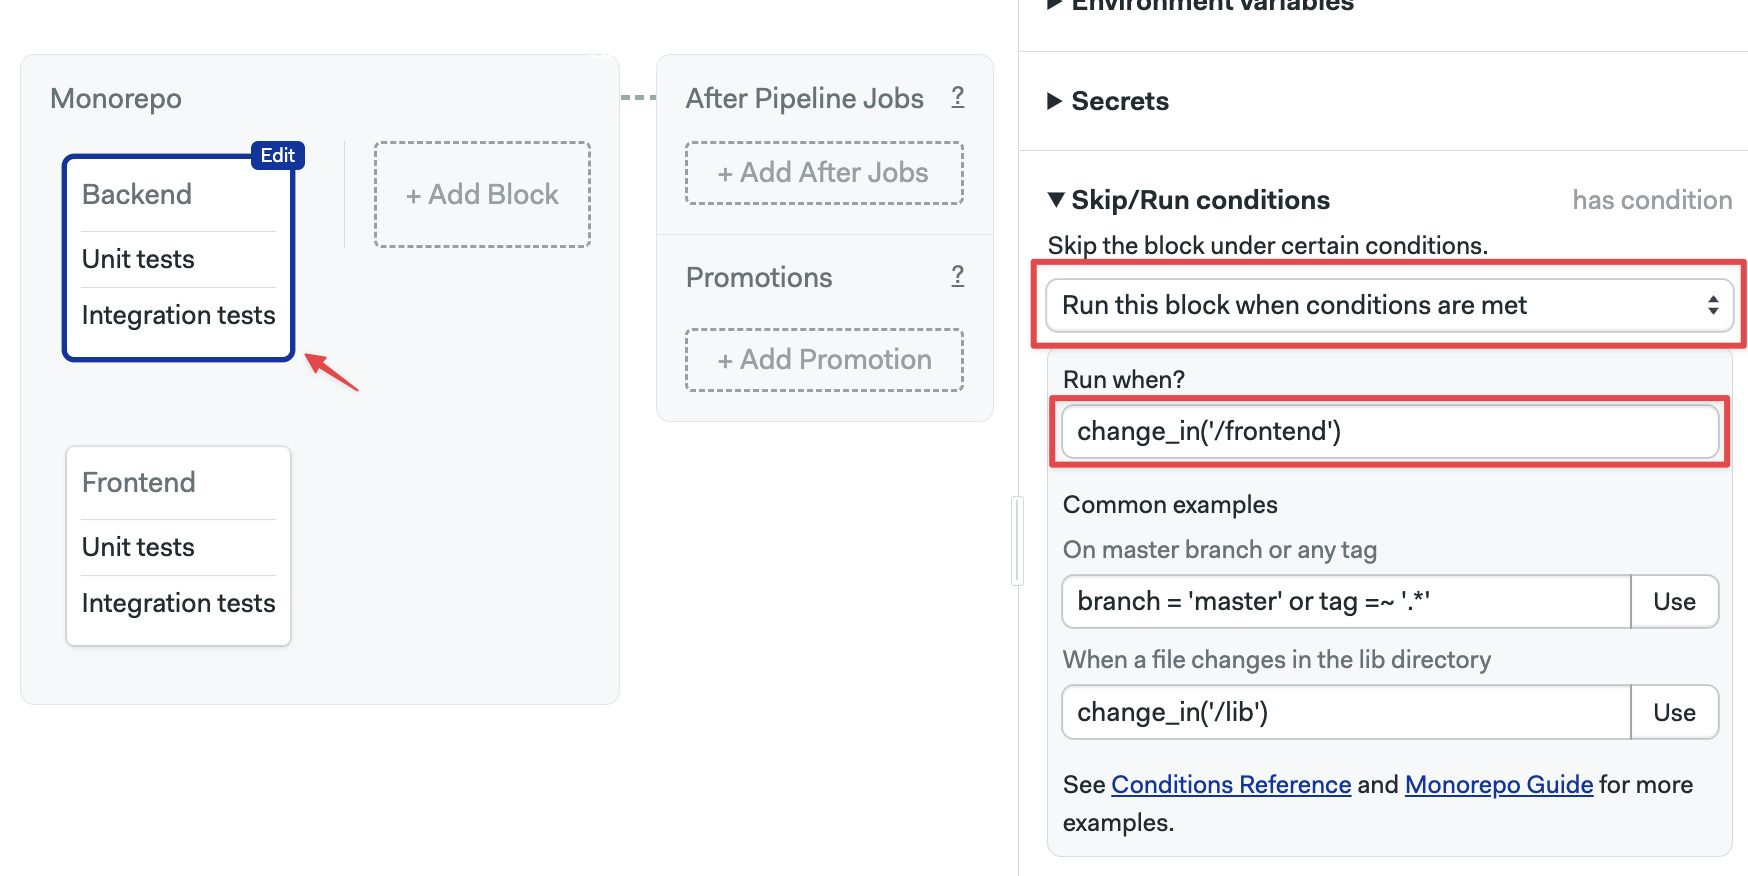
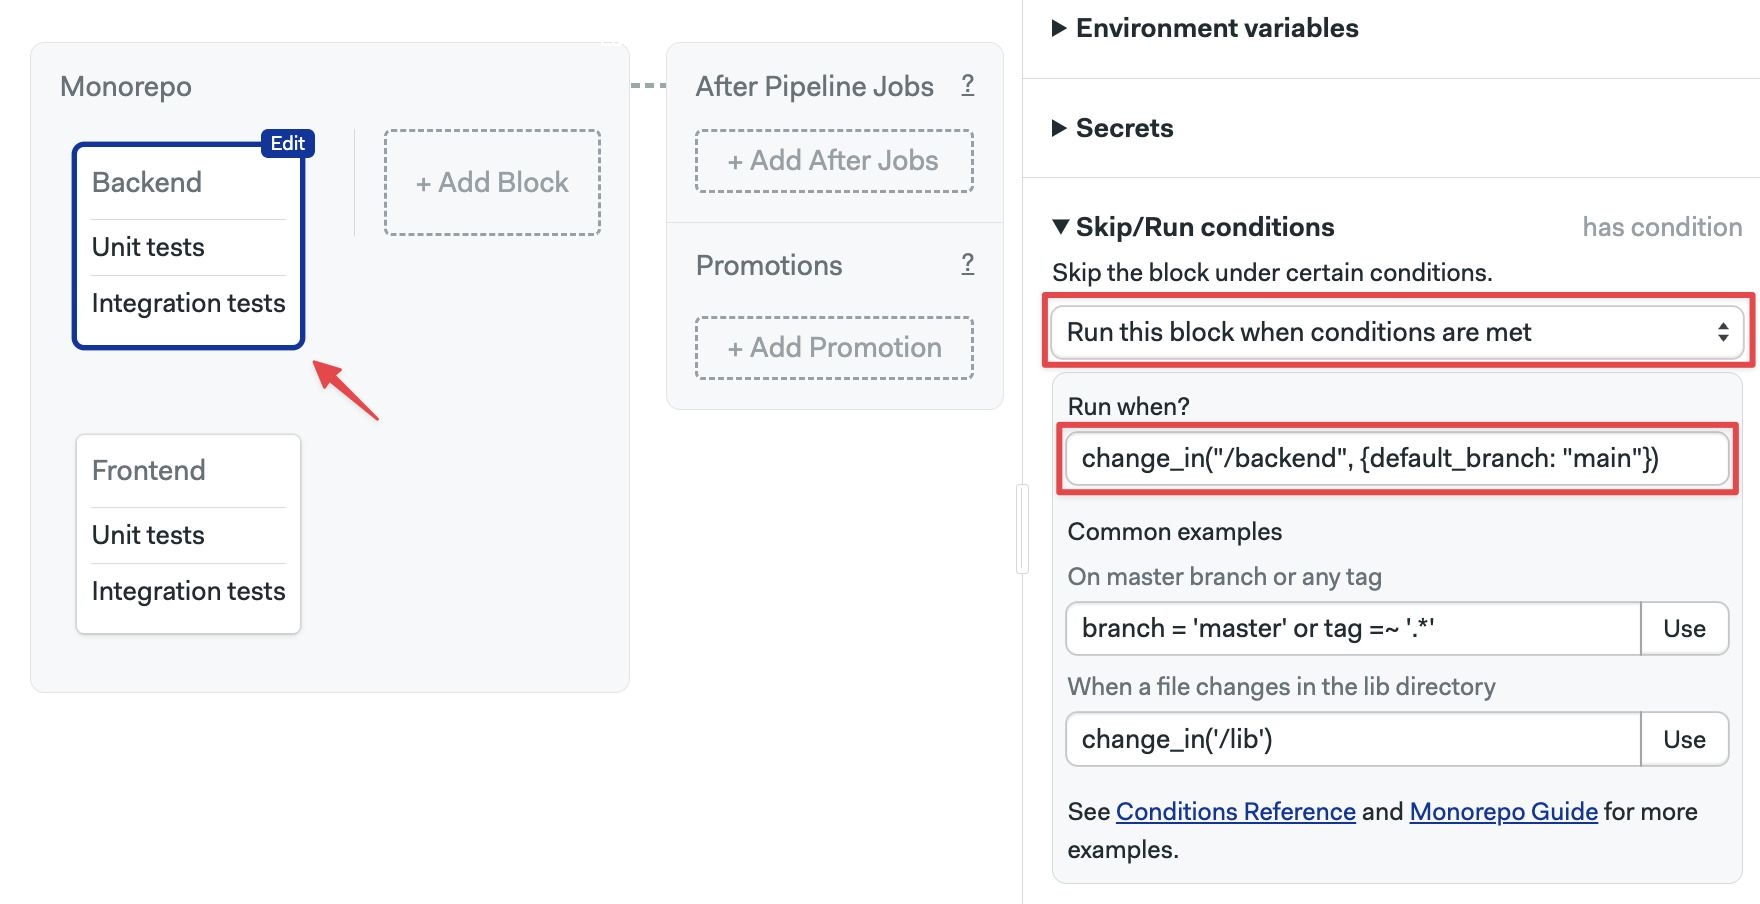
Default branch is more explicit. (#149)

diff --git a/docs/docs/using-semaphore/optimization/monorepo.md b/docs/docs/using-semaphore/optimization/monorepo.md
@@ -18,9 +18,9 @@ A [monorepo](https://semaphoreci.com/blog/what-is-monorepo) is a repository that
 
 Semaphore can detect changes between commits, allowing you to set up fine-grained jobs that only run when the underlying code changes. Skipping jobs covering unchanged code can greatly speed testing and reduce costs on big codebases.
 
-:::info 
+:::note 
 
-Pipelines with `change_in` expressions require a [pipeline initialization](../pipelines#init-job) step before the workflow starts.
+The `change_in` expressions are evaluated in the [pipeline initialization job](../pipelines#init-job).
 
 :::
 
@@ -121,12 +121,6 @@ While change detection is mainly geared toward monorepo projects. Nothing is pre
 
 ### Change detection in jobs {#jobs}
 
-:::note
-
-All paths are relative to the root of the repository.
-
-:::
-
 To enable change detection, follow these steps.
 
 <Tabs groupId="editor-yaml">
@@ -136,13 +130,15 @@ To enable change detection, follow these steps.
 2. Select the block
 3. Open the **Skip/run conditions** on the right side
 4. Select **Run this block when conditions are met**
-5. In the **When?** field type the [change condition](#condition), e.g. `change_in('/frontend')`
+5. In the **When?** field type the [change condition](#condition), e.g. `change_in("/frontend", {default_branch: "main"})`
 
 ![Setting up change conditions](./img/change-conditions-first.jpg)
 
-Repeat the procedure for the rest of the blocks. For example, for the Backend block, we could use the condition `change_in('/backend')`
+Repeat the procedure for the rest of the blocks. For example, for the Backend block, we could use the condition `change_in("/backend", {default_branch: "main"})`
 
 Press **Run the workflow** > **Start** to save your changes and run the pipeline.
+
+Conditions are ignored by default when you change the pipeline file. So, the very next run executes all blocks. Subsequent pushes should respect your change detection conditions.
 
 </TabItem>
 <TabItem value="yaml" label="YAML">
@@ -150,9 +146,11 @@ Press **Run the workflow** > **Start** to save your changes and run the pipeline
 1. Open your pipeline YAML file
 2. Locate the block you wish to add change conditions to
 3. Add `run.when` under the block
-4. Type the [change condition](#condition), e.g. `change_in('/frontend')`
+4. Type the [change condition](#condition), e.g. `change_in("/frontend", {default_branch: "main"})`
 5. Repeat the process for the other blocks that need conditions
 6. Push the pipeline file to the remote repository 
+
+Conditions are ignored by default when you change the pipeline file. So, the very next run executes all blocks. Subsequent pushes should respect your change detection conditions.
 
 ```yaml title="Change conditions"
 version: v1.0
@@ -183,7 +181,7 @@ blocks:
             - 'npm run test:integration'
     # highlight-start
     run:
-      when: change_in('/frontend')
+      when: 'change_in("/frontend", {default_branch: "main"})'
     # highlight-end
   - name: Frontend
     dependencies: []
@@ -201,16 +199,16 @@ blocks:
             - 'npm run test:integration'
     # highlight-start
     run:
-      when: change_in('/backend')
+      when: 'change_in("/backend", {default_branch: "main"})'
     # highlight-end
 ```
 
 </TabItem>
 </Tabs>
 
-:::info
+:::note
 
-Conditions are ignored by default when you change the pipeline file. So, the very next run executes all blocks. Subsequent pushes should respect your change detection conditions.
+All paths are relative to the root of the repository.
 
 :::
 
@@ -227,11 +225,11 @@ To activate change detection on promotions, follow these steps:
 1. Open the **Workflow Editor** for your Semaphore project
 2. Create or select the [promotion](../pipelines#connecting-pipelines)
 3. Check the option **Enable automatic promotion**
-4. Type the [change condition](#condition), e.g. `branch = 'master' AND result = 'passed' AND change_in('/backend')`
+4. Type the [change condition](#condition), e.g. `branch = "main" AND result = "passed" AND change_in("/backend", {default_branch: "main"})`
 
 ![Change conditions for promotions](./img/change-condition-promotion.jpg)
 
-Repeat the procedure for the rest of the promotions. For example, for the Frontend block, we could use the condition `change_in('/frontend') and branch = 'master' AND result = 'passed'`
+Repeat the procedure for the rest of the promotions. For example, for the Frontend block, we could use the condition `change_in("/frontend", {default_branch: "main"}) and branch = "main" AND result = "passed"`
 
 <Tabs groupId="editor-yaml">
 <TabItem value="editor" label="Editor">
@@ -243,7 +241,7 @@ To use change detection, follow these steps:
 1. Open your pipeline YAML file
 2. Locate or create the [promotion block](../pipelines#connecting-pipelines) you wish to add conditions to
 3. Add `auto_promote.when` under the block
-4. Type the [change condition](#condition), e.g. `change_in('/frontend')`
+4. Type the [change condition](#condition), e.g. `change_in("/frontend", {default_branch: "main"})`
 5. Repeat the process for the other promotions that need conditions
 6. Push the pipeline file to the remote repository 
 
@@ -270,7 +268,7 @@ blocks:
             - 'npm install'
             - 'npm run test:integration'
     run:
-      when: change_in('/frontend')
+      when: 'change_in("/frontend", {default_branch: "main"})'
   - name: Frontend
     dependencies: []
     task:
@@ -286,19 +284,19 @@ blocks:
             - 'npm install'
             - 'npm run test:integration'
     run:
-      when: change_in('/backend')
+      when: 'change_in("/backend", {default_branch: "main"})'
 promotions:
   - name: Deploy Backend
     pipeline_file: deploy_backend.yml
     # highlight-start
     auto_promote:
-      when: change_in('/backend') and branch = 'master' AND result = 'passed'
+      when: 'change_in("/backend", {default_branch: "main"}) and branch = "main" AND result = "passed"'
     # highlight-end
   - name: Deploy Frontend
     pipeline_file: deploy_frontend.yml
     # highlight-start
     auto_promote:
-      when: change_in('/frontend') and branch = 'master' AND result = 'passed'
+      when: 'change_in("/frontend", {default_branch: "main"}) and branch = "main" AND result = "passed"'
     # highlight-end
 ```
 
@@ -339,7 +337,7 @@ Using the YAML syntax there are two variants for conditions:
 
 Example with `run.when`:
 
-```shell title="Using run when conditions"
+```yaml title="Using run when conditions"
 version: v1.0
 name: Monorepo
 agent:
@@ -363,13 +361,13 @@ blocks:
             - 'npm run test:integration'
     # highlight-start
     run:
-      when: change_in('/backend')
+      when: 'change_in("/backend", {default_branch: "main"})'
     # highlight-end
 ```
 
 Example showing `skip.when` conditions:
 
-```shell title="Using skip when conditions"
+```yaml title="Using skip when conditions"
 version: v1.0
 name: Monorepo
 agent:
@@ -393,7 +391,7 @@ blocks:
             - 'npm run test:integration'
     # highlight-start
     skip:
-      when: change_in('/backend')
+      when: 'change_in("/backend", {default_branch: "main"})'
     # highlight-end
 ```
 
@@ -411,7 +409,7 @@ change_in(<glob_pattern>, options)
 The `options` is an optional hashmap to change the change detection behavior. For example, to change the name of the trunk from master to main:
 
 ```text title="Using main instead of master"
-change_in('/backend/', {default_branch: 'main'})
+change_in("/backend/", {default_branch: "main"})
 ```
 The most common options are:
 The supported options are:
@@ -430,31 +428,31 @@ See the [change_in conditions DSL referece](../../reference/conditions-dsl#chang
 This section shows examples of common change detection scenarios.
 
 ```text title="When a directory changes"
-change_in('/backend/')
+change_in("/backend/", {default_branch: "master"})
 ```
 
 ```text title="When a file changes"
-change_in('../Gemfile.lock')
+change_in("../Gemfile.lock", {default_branch: "master"})
 ```
 
 ```text title="Trunk is main instead of master"
-change_in('/backend/', {default_branch: 'main'})
+change_in("/backend/", {default_branch: "main"})
 ```
 
 ```text title="Ignoring pipeline file changes"
-change_in('/backend/', {pipeline_file: 'ignore'})
+change_in("/backend/", {pipeline_file: "ignore", default_branch: "main"})
 ```
 
 ```text title="When any file changes, except files in the docs folder"
-change_in('/', {exclude: ['/docs']})
+change_in("/", {exclude: ["/docs"], default_branch: "main"})
 ```
 
 ```text title="Changes in /backend/ folder for branches master or staging"
-(branch = 'staging' OR branch = 'master') and change_in('/backend/)
+(branch = "staging" OR branch = "main") and change_in("/backend/", default_branch: "main")
 ```
 
 ```text title="Changes on /backend/ folder for any branch starting with 'hotfix/'"
-branch =~ '^hotfix/' and change_in('/backend/) 
+branch =~ "^hotfix/" and change_in("/backend/", default_branch: "main") 
 ```
 
 ## See also
